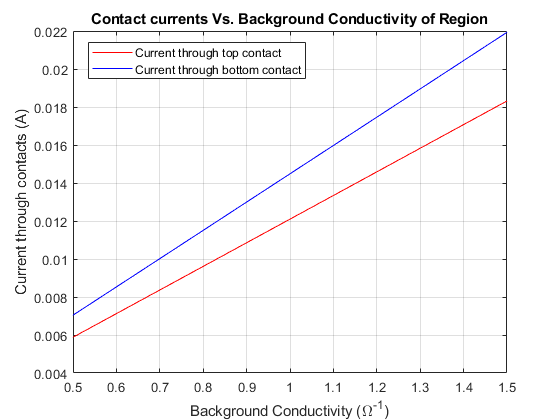
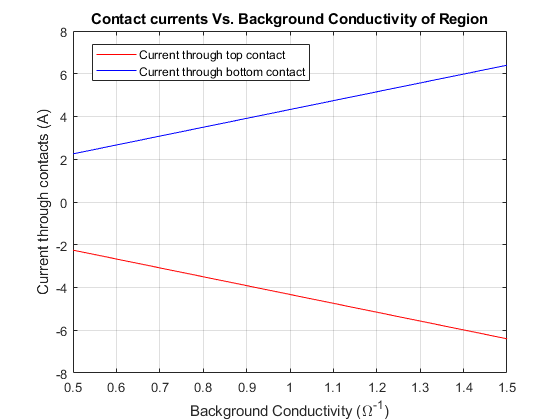
completed assignment

diff --git a/ELEC4700Assignment2.m b/ELEC4700Assignment2.m
@@ -1,25 +1,33 @@
+addpath('./code/');
+ 
+close all;
+clear;
+clc;
+
+% ---------- 1 a) and b) ---------- %
+
 Question1;
 
 % ---------- 2 a) ---------- %
-[currentTop, currentBottom] = Question2(1, 1, 1e-2, 1);
+[currentLeft, currentRight] = Question2(1, 1, 1e-2, 1, 1/3, 1/3);
 
 % ---------- 2 b) ---------- %
 meshSize = [0.5 0.75 1 1.25 1.5];
-currentTopVec = zeros(1, length(meshSize));
-currentBotVec = zeros(1, length(meshSize));
+currentLeftVec = zeros(1, length(meshSize));
+currentRighVec = zeros(1, length(meshSize));
 
 for i = 1:length(meshSize)
    
-    [currentTopVec(i), currentBotVec(i)] = Question2(meshSize(i), 1, 1e-2, 0);
+    [currentLeftVec(i), currentRighVec(i)] = Question2(meshSize(i), 1, 1e-2, 0, 1/3, 1/3);
     
 end
 
 figure;
-plot(meshSize, currentTopVec, 'r');
+plot(meshSize, currentLeftVec, 'r');
 hold on;
-plot(meshSize, currentBotVec, 'b');
+plot(meshSize, currentRighVec, 'b');
 hold off;
-legend('Current through top contact', 'Current through bottom contact');
+legend('Current through left contact', 'Current through right contact');
 grid on;
 title('Contact currents Vs. Mesh Size');
 xlabel('Mesh size (m)');
@@ -27,24 +35,65 @@ ylabel('Current through contacts (A)');
 
 % ---------- 2 c) ---------- %
 
+bottleneckLength = [1/5 1/4 1/3 1/2];
+bottleneckWidth = [1/5 1/4 1/3 1/2];
+currentLeftVec = zeros(1, length(bottleneckLength));
+currentRighVec = zeros(1, length(bottleneckLength));
+
+% first vary bottleneck length
+for i = 1:length(bottleneckLength)
+   
+    [currentLeftVec(i), currentRighVec(i)] = Question2(meshSize(i), 1, 1e-2, 0, bottleneckLength(i), 1/3);
+    
+end
+
+figure;
+plot(bottleneckLength, currentLeftVec, 'r');
+hold on;
+plot(bottleneckLength, currentRighVec, 'b');
+hold off;
+legend('Current through left contact', 'Current through right contact');
+grid on;
+title('Contact currents Vs. Bottleneck Length');
+xlabel('Bottleneck Length (fraction of region length L)');
+ylabel('Current through contacts (A)');
+
+% then vary bottleneck width
+for i = 1:length(bottleneckWidth)
+   
+    [currentLeftVec(i), currentRighVec(i)] = Question2(meshSize(i), 1, 1e-2, 0, 1/3, bottleneckWidth(i));
+    
+end
+
+figure;
+plot(bottleneckWidth, currentLeftVec, 'r');
+hold on;
+plot(bottleneckWidth, currentRighVec, 'b');
+hold off;
+legend('Current through left contact', 'Current through right contact');
+grid on;
+title('Contact currents Vs. Bottleneck Width');
+xlabel('Bottleneck Width (fraction of region width W)');
+ylabel('Current through contacts (A)');
+
 
 % ---------- 2 d) ---------- %
 % vary background sigma, hold resistive region sigma fixed
 
 backgroundCondVec = [0.5, 0.75, 1, 1.25 1.5];
-currentTopVec = zeros(1, length(backgroundCondVec));
-currentBotVec = zeros(1, length(backgroundCondVec));
+currentLeftVec = zeros(1, length(backgroundCondVec));
+currentRighVec = zeros(1, length(backgroundCondVec));
 
-for i = 1:length(meshSize)
+for i = 1:length(backgroundCondVec)
    
-    [currentTopVec(i), currentBotVec(i)] = Question2(1, backgroundCondVec(i), 1e-2, 0);
+    [currentLeftVec(i), currentRighVec(i)] = Question2(1, backgroundCondVec(i), 1e-2, 0, 1/3, 1/3);
     
 end
 
 figure;
-plot(backgroundCondVec, currentTopVec, 'r');
+plot(backgroundCondVec, currentLeftVec, 'r');
 hold on;
-plot(backgroundCondVec, currentBotVec, 'b');
+plot(backgroundCondVec, currentRighVec, 'b');
 hold off;
 legend('Current through top contact', 'Current through bottom contact');
 grid on;

diff --git a/code/Question2.m b/code/Question2.m
@@ -1,4 +1,4 @@
-function [currentTop, currentBot] = Question2(meshSize, backgroundCond, boxCond, doPlot)
+function [currentLeft, currentRight] = Question2(meshSize, backgroundCond, boxCond, doPlot, bottleneckLength, bottleneckWidth)
 
 L = 20;
 W = 40;
@@ -6,9 +6,9 @@ W = 40;
 nx = round(L/meshSize);
 ny = round(W/meshSize);
 
-V_o = 10;
+V_o = 5;
 
-cMap = buildConductionMap(L, W, meshSize, nx, ny, backgroundCond, boxCond);
+cMap = buildConductionMap(L, W, meshSize, nx, ny, backgroundCond, boxCond, bottleneckLength, bottleneckWidth);
 
 
 G = sparse(nx*ny, nx*ny);
@@ -104,8 +104,8 @@ Jy = cMap.*Ey;
 
 % numerical approximation of surface integral of J at the top and bottom
 % contacts
-currentTop = abs(sum(Jy(ny,:))*meshSize);
-currentBot = abs(sum(Jy(1,:))*meshSize);
+currentLeft = -abs(sum(Jx(:,1))*meshSize);
+currentRight = abs(sum(Jx(:,nx))*meshSize);
 
 % plots
 

diff --git a/buildConductionMap.m b/buildConductionMap.m
@@ -1,10 +1,13 @@
-function [cMap] = buildConductionMap(L, W, meshSize, nx, ny, backgroundCond, boxCond)
+function [cMap] = buildConductionMap(L, W, meshSize, nx, ny, backgroundCond, boxCond, bottleneckLength, bottleneckWidth)
 %UNTITLED2 Summary of this function goes here
 %   Detailed explanation goes here
 
+%bottleneckLength and bottleneckWidth are defined as fractions of the total
+%region length and width.
+
 cMap = zeros(ny, nx);
-boxL = L/3;
-boxH = W/3;
+boxL = bottleneckLength*L;
+boxH = bottleneckWidth*W;
 boxXstart = ((L/3)/meshSize);
 boxXfinish = boxXstart + boxL/meshSize;
 boxYstart = 0;
